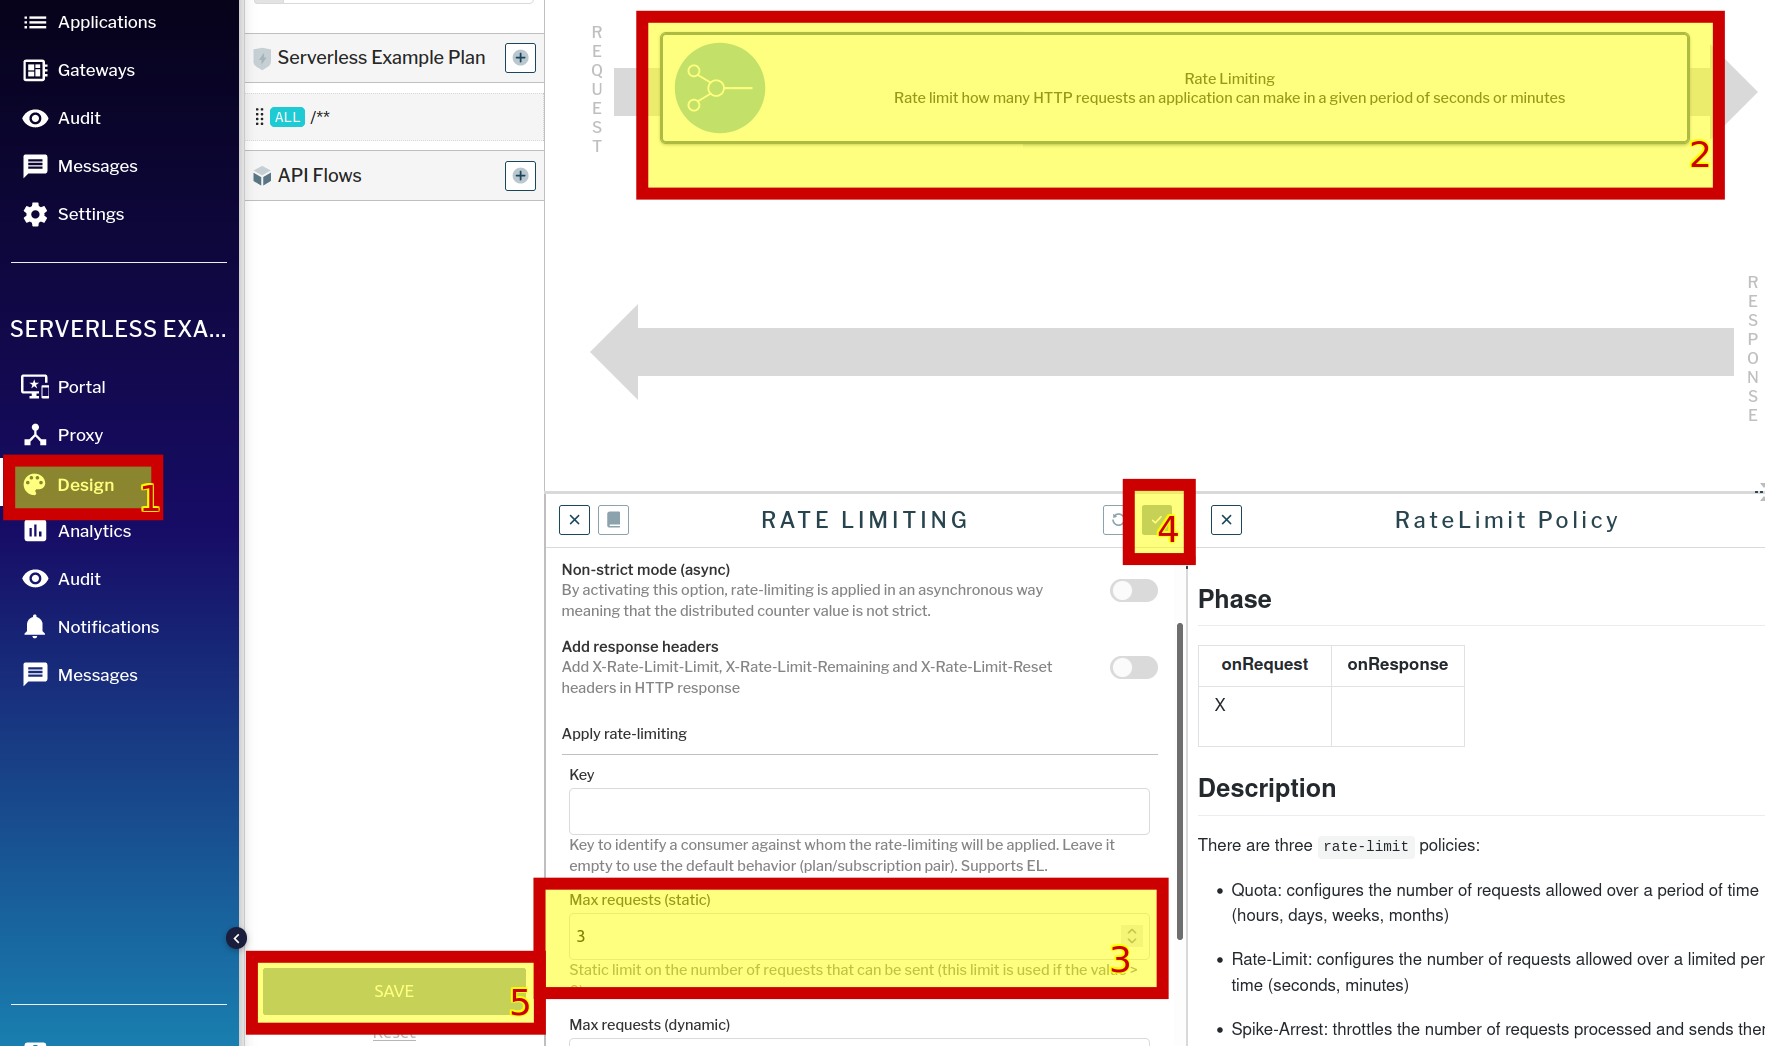
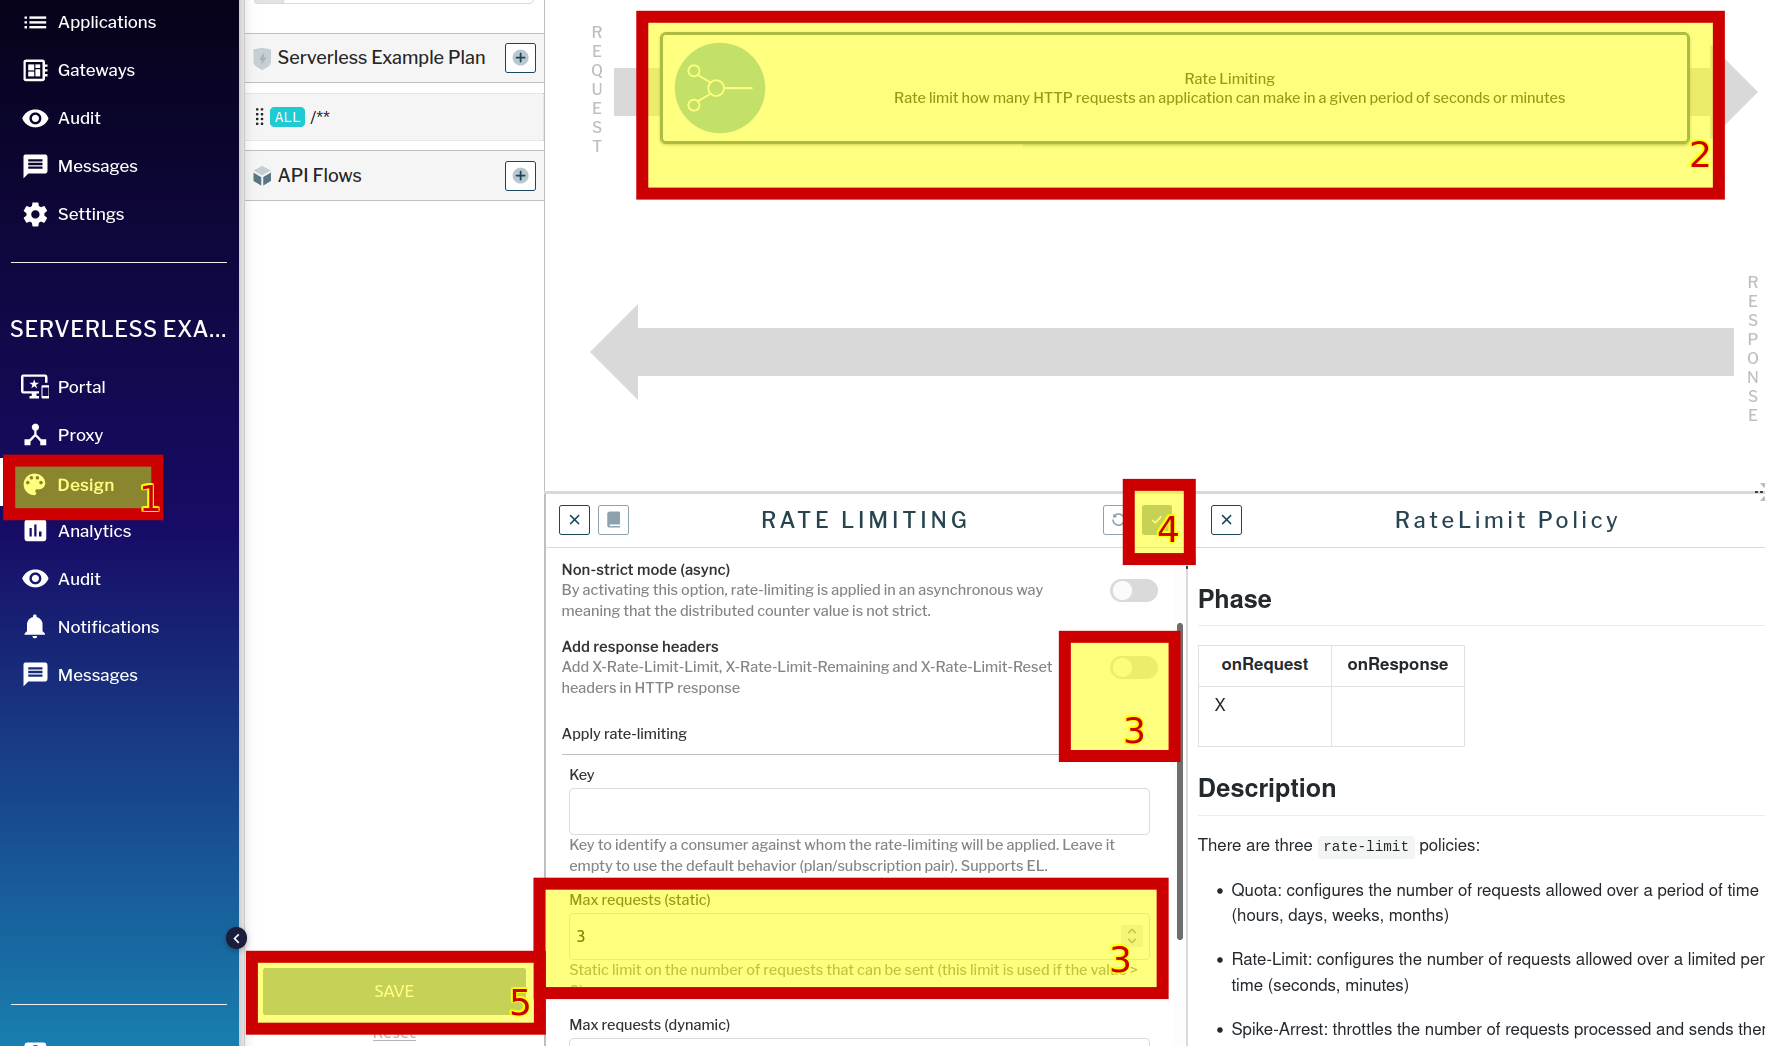
add ratelimit headers section and opa rule  openapi5

Changed region(s): [[0.5921, 0.5813, 0.6856, 0.7342]]

diff --git a/openapi5/step4.md b/openapi5/step4.md
@@ -5,9 +5,9 @@
 {"message":"Rate limit exceeded ! You reach the limit of 3 requests per 1 minutes","http_status_code":429}
 ```
 Давайте изменим настройки рейтлимита.  
-Откроем интерфейс gravitee apim по ссылке [gravitee ](https://[[HOST_SUBDOMAIN]]-32100-[[KATACODA_HOST]].environments.katacoda.com/)  
+Откроем интерфейс gravitee apim по ссылке [gravitee ](https://[[HOST_SUBDOMAIN]]-32100-[[KATACODA_HOST]].environments.katacoda.com/#!/environments/DEFAULT/apis/b7c385f6-b73a-49d8-8385-f6b73ae9d8ea/portal)  
 
-Перейдем в настройки плана для нашего api и увеличим количество доступных запросов до 5 в минуту.
+Перейдем в настройки плана для нашего api и увеличим количество доступных запросов до 5 в минуту.  А так же включим в респонс рейтлимит заголовки
 
 ![App_](./assets/openapi5-3.png) 
 
@@ -17,8 +17,15 @@
 
 проверим изменения запросом:
 
-`curl -H @apikey http://localhost:32100/gateway/fn2`{{execute}}
+`curl -v -H @apikey http://localhost:32100/gateway/fn2`{{execute}}
 
+Должны присутствовать заголовки X-Ratelimit-*:
+
+```
+< X-Rate-Limit-Limit: 5 - текущий лимит
+< X-Rate-Limit-Remaining: 4 - осталось попыток в текущем лимите
+< X-Rate-Limit-Reset: 1640505306497 - время окончания текущего лимита в формате timstamp
+```
 
 После 5 запросов должен быть ответ
 
